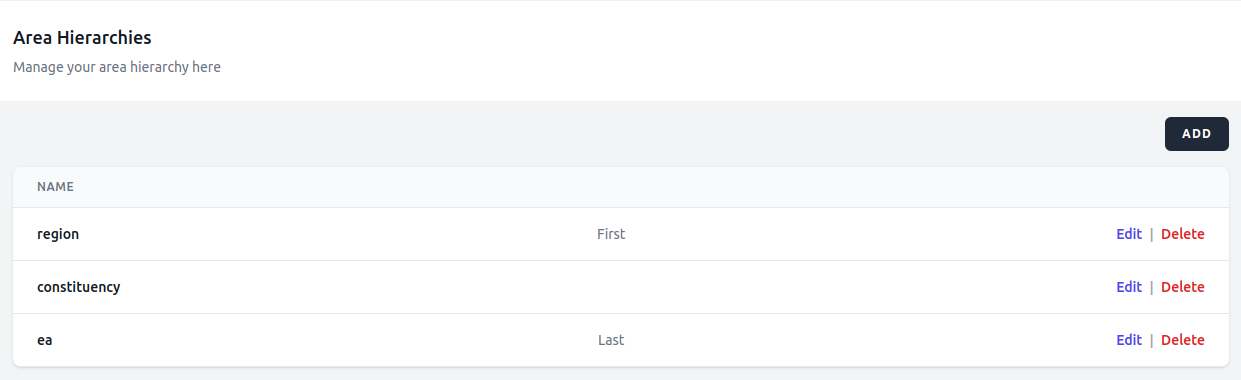
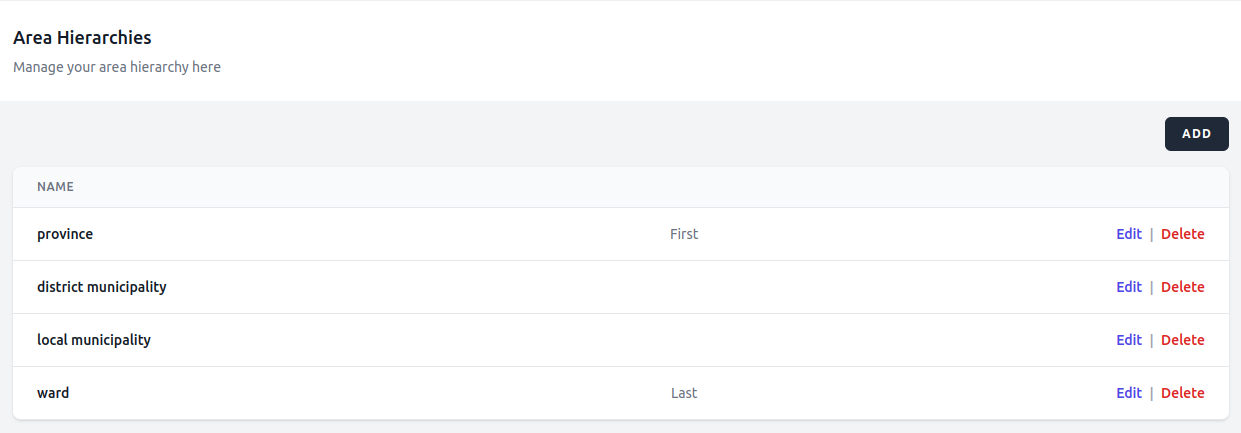
Added core configuration and filled out creating indicators (wip)

diff --git a/docs/developer/Building your dashboard/Creating indicators.md b/docs/developer/Building your dashboard/Creating indicators.md
@@ -5,20 +5,31 @@ slug: ../building-your-dashboard/creating-indicators
 
 # Creating indicators
 
-Now that you have your questionnaires (data sources) added to the dashboard, you can start creating indicators. Indicator creation involves running a chimera command (interactive) on the command line and will result in the creation of files (component class) and addition of entries in to the database for created indicators, including permissions.
+Now that you have your core configuration in place, you can start creating indicators. Indicator creation involves running a chimera command (interactive) on the command line and will result in the creation of files (component class) and addition of entries in to the database for created indicators, including permissions.
+
+The created indicator file will contain the basics of an indicator and it extends the base Chart class but will still require you two write some PHP code to implement your indicator fully.
 
 ## Make indicator command
-Indicators are created only by running the chimera:make-indicator command.
+The one and only way to create indicators is by running the `chimera:make-indicator` command.
 
-The command is interactive and allows you to control various aspects of the generated file. 
+The command is interactive and allows you to control various aspects of the generated file.
 
-You can choose to have some working sample code included in the generated file so that you can immediately start seeing realistic looking in your dashboard. 
+You can choose to have some working sample code included in the generated file so that you can immediately start seeing realistic looking indicators in your dashboard. 
 
 You can also choose to download and use indicator templates that have already been partially built out by us (and hopefully other contributors).
 
 ```
 php artisan chimera:make-indicator
 ```
+
+:::caution
+Please pay special attention when you provide a name for your indicator. It is what will became both the class and file name for you indicator and will create directories if you specify it.
+Please read the instructions and examples on the command line very carefully.
+:::
+
+For example, the following will result in the creation of a folder called Enumeration in the <span className='text--danger text--light'>app/Http/Livewire</span> directory and a file named *HouseholdsEnumerated.php* inside the Enumeration directory.
+
+![Make indicator command example](/img/developer/building-your-dashboard/make-indicator-command.png)
 
 ## Indicator templates
 Indicator templates are partial implementations of common indicators such as population pyramid, household size, sex ratio, etc.
@@ -49,7 +60,7 @@ getTraces() uses the data returned by getData() and formulates the traces you in
 getLayout() just like the other methods, getLayout() returns the default layout provided which you can receive, modify and return.
 
 ## Deleting indicators
-Deleting indicators (including permissions and database entry) can be acomplished by using the generic chimera:delete command
+Deleting indicators (including permissions and database entry) can be accomplished by using the generic chimera:delete command
 
 ```
 php artisan chimera:delete
@@ -63,3 +74,37 @@ There, you can edit indicator titles, descriptions, contextual help text and als
 You can also add the indicator to one or more of the pages you have already created. 
 
 The default state of indicators when they are created on the command line is to be in 'draft' mode. You can publish them so that they can become visible on the pages they are added to by using the status toggle button.
+
+## Implementing generated indicators
+There are three possible versions your generated indicator file might be in.
+
+- Empty
+
+If you choose not to use indicator templates and also opt out of the inclusion of sample code during the generation, you will end up with the following file. 
+
+```php
+<?php
+
+namespace App\Http\Livewire\Households;
+
+use App\Http\Livewire\Chart;
+
+class BirthRate extends Chart
+{
+
+}
+
+```
+If you publish it and see the results on the destination page, you will see an empty graph that displays a standard text stating the lack of data for the indicator.
+
+- With sample code
+
+If you choose to include sample code during the generation of the indicator, the resulting file will have three methods implemented (overriding the base class implementations) inside the class. 
+
+If you previewed it, you would see something like the following
+
+![Preview of indicator with sample code](/img/developer/building-your-dashboard/preview-of-indicator-with-sample-code.png)
+
+- From a template
+
+If you select an existing template during the generation of the indicator, the resulting file will have a "standard" implementation of the said indicator. In this scenario, you just need to replace the getData() method with your own implementation so that you are displaying actual data from your own questionnaire (data source).

diff --git a/docs/developer/Building your dashboard/Core configuration.md b/docs/developer/Building your dashboard/Core configuration.md
@@ -50,8 +50,48 @@ Please note that the order of appearance of the area entries is important. It si
 
 ## Area importation
 
-Once you define your area hierarchy, the next step is to actually import your areas into the system so that it can be used for filtering down various indicators and can also be used in maps.
+Once you define your area hierarchy, the next step is to actually import your areas into the system so that it can be used for filtering various indicators, creating maps, etc.
+
+You have the option of importing the data from two file formats:
+
+- **Shapefiles (preferred)**
+
+    Shapefile is the preferred file format for importing areas into your dashboard because it contains both the spatial data and the area metadata (names and codes).
+
+    When importing the various levels via shapefiles, the dashboard will take care of associating them with each other (creates the parent-child relationship) by matching them spatially. Therefore, it is important to make sure that all your shapefiles are consistent and that are spatially contained by one another. 
+    
+    The algorithm has a threshold of about 70% minimum containment that it uses to pair parent-child areas. If you choose to "simplify" you shapefiles, make sure that you do not over do it. You can overlay them to check that lower levels are still contained (at least 70%) by their immediate higher level area.
+
+    ![Importing areas from shapefile](/img/developer/building-your-dashboard/importing-area-hierarchy-from-shapefile.png)
+
+- **Spreadsheets (.csv or .xlsx)**
+
+    You can also import your areas via a spreadsheet format such as csv or Excel but here you will not have the maps and therefore can have map based indicators in you dashboard.
+
+    When importing, you can use the interface to map which columns of your spreadsheet hold which area level (name and code) and are also able to apply zero padding to your codes to match how they appear in your source data (questionnaire).
+
+    ![Importing areas from csv](/img/developer/building-your-dashboard/importing-area-hierarchy-from-csv.png)
+
+    The imported data should look something like the following
+
+    ![Imported area hierarchy](/img/developer/building-your-dashboard/imported-area-hierarchy.png)
+
+> The example spreadsheet data for South Africa, seen above, was sourced from [The Humanitarian Data Exchange](https://data.humdata.org/)
+
+
 
 ## Reference value importation
 
 What we generally refer to as reference values are concepts such as 'expected values' and 'target values'. These are used for comparing your actual data against so that you have some frame of reference to better understand the data/indicator your are viewing.
+
+To import reference values, you will need to have the data in an Excel or CSV file and it needs to be at the lowest area hierarchy level (usually EA).
+
+The file needs to have at least two columns. One for the code of your lowest area hierarchy and another for the value of the reference value you are importing. It is common to have multiple columns, each named by the reference value they represent, in the same spreadsheet.
+
+![Sample reference values CSV file](/img/developer/building-your-dashboard/reference-value-spreadsheet.png)
+
+The following screenshot depicts how one would do mapping of columns to import reference values from the above CSV file.
+
+You can see that the female total population (F_TL), male total population (M_TL), total population (T_TL) and total population aged 80+ (T_80PLUS) are being imported here. Also note that since the data is at the last area hierarchy level, and as it is population data, the "Is additive" option has been selected and therefore the data will be summed and saved for the respective higher level areas.
+
+![Importing reference values from CSV file](/img/developer/building-your-dashboard/importing-reference-values.png)
